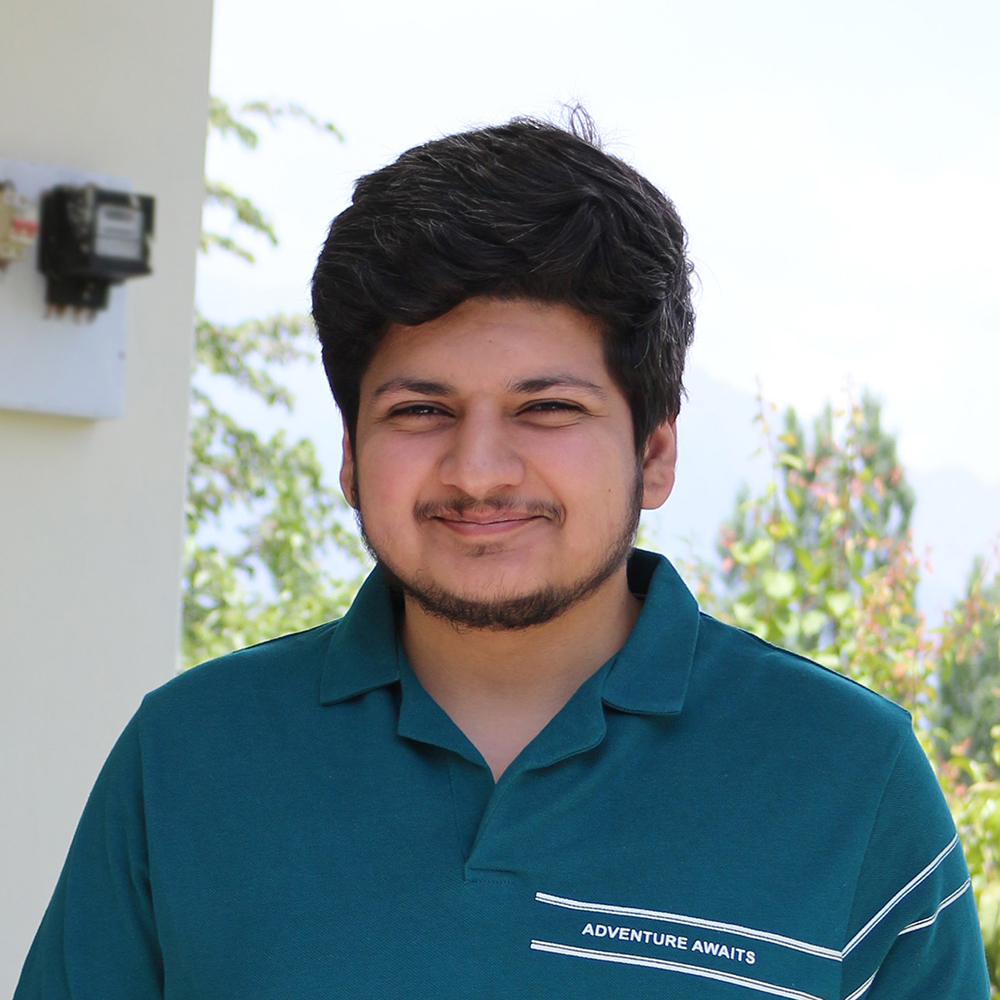
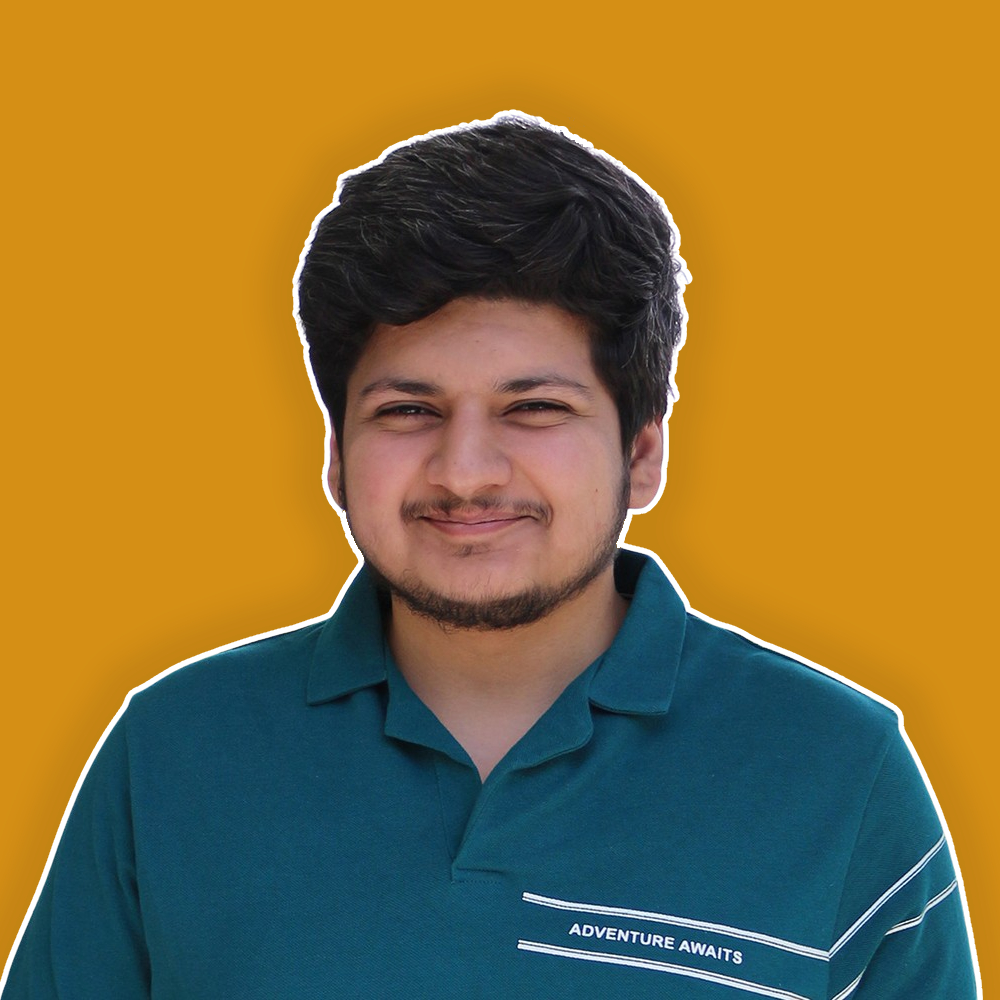
feat(): add new dp image + fix div classes in resume

diff --git a/styles/main.css b/styles/main.css
@@ -120,22 +120,24 @@ img.next-image {
 
 .designation-with-img {
   display: flex;
+  justify-content: space-between;
 }
 
-img.resume-dp {
-  margin: 0;
-  margin-left: auto;
-  margin-right: 10px;
-  margin-top: -70px;
-  width: 110px;
-  border-radius: 50%;
-  opacity: 0.5;
-  filter: grayscale(100%);
-  transition: all 0.2s ease-out;
-}
-img.resume-dp:hover {
+.resume-dp {
   opacity: 1;
-  filter: grayscale(0%);
+  transition: all 0.2s ease-out;
+  background: url("/images/Mohsin_DP.png") no-repeat;
+  width: 150px;
+  height: 150px;
+  background-size: cover;
+
+  /* To make it in line with name heading*/
+  margin-top: -61px;
+}
+.resume-dp:hover {
+  opacity: 1;
+  background: url("/images/Mohsin_DP2.png") no-repeat;
+  background-size: cover;
 }
 
 .contact-icon {
@@ -190,7 +192,9 @@ img.resume-dp:hover {
     opacity: 0.6;
   }
 
-  img.resume-dp {
+  .resume-dp {
+    width: 100px;
+    height: 100px;
     margin-top: -50px;
   }
 
